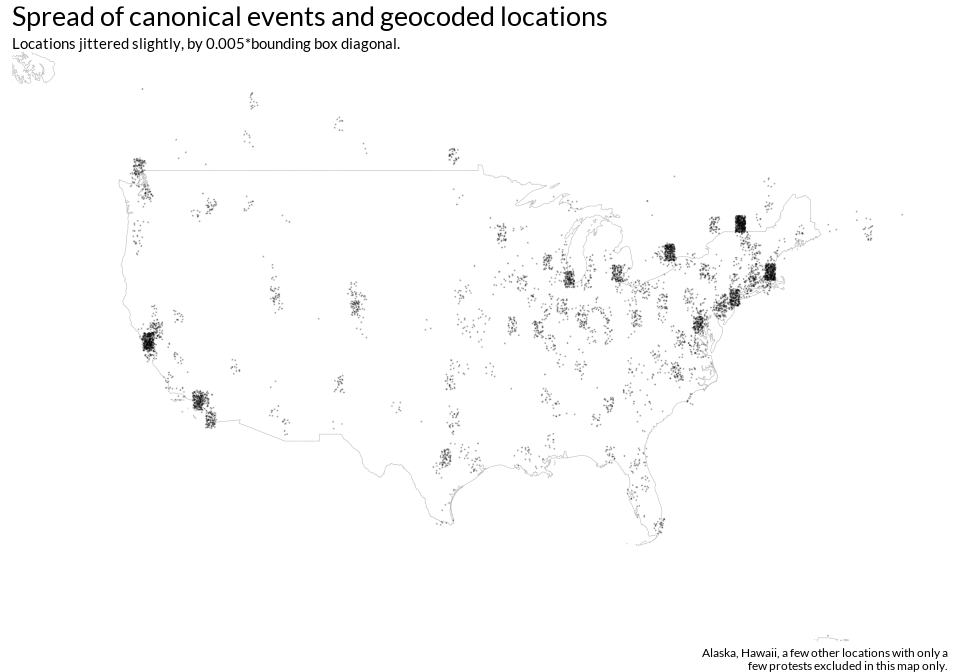
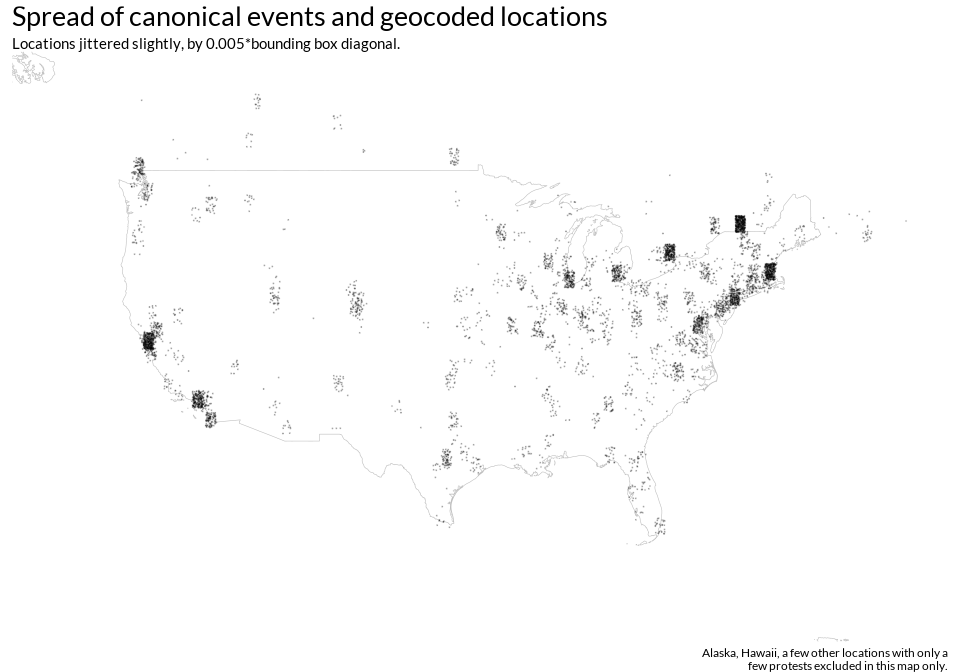
hid quebec map

diff --git a/docs/exploratory_plots.md b/docs/exploratory_plots.md
@@ -740,7 +740,7 @@ and solidarity events.
 | Campaign events only           | 167 |
 | Solidarity events only         |   8 |
 
-![](exploratory_plots_files/figure-gfm/quebec-1.png)<!-- -->![](exploratory_plots_files/figure-gfm/quebec-2.png)<!-- -->
+![](exploratory_plots_files/figure-gfm/quebec-1.png)<!-- -->
 
 ### Quebec events frequency stratified by police fields
 
